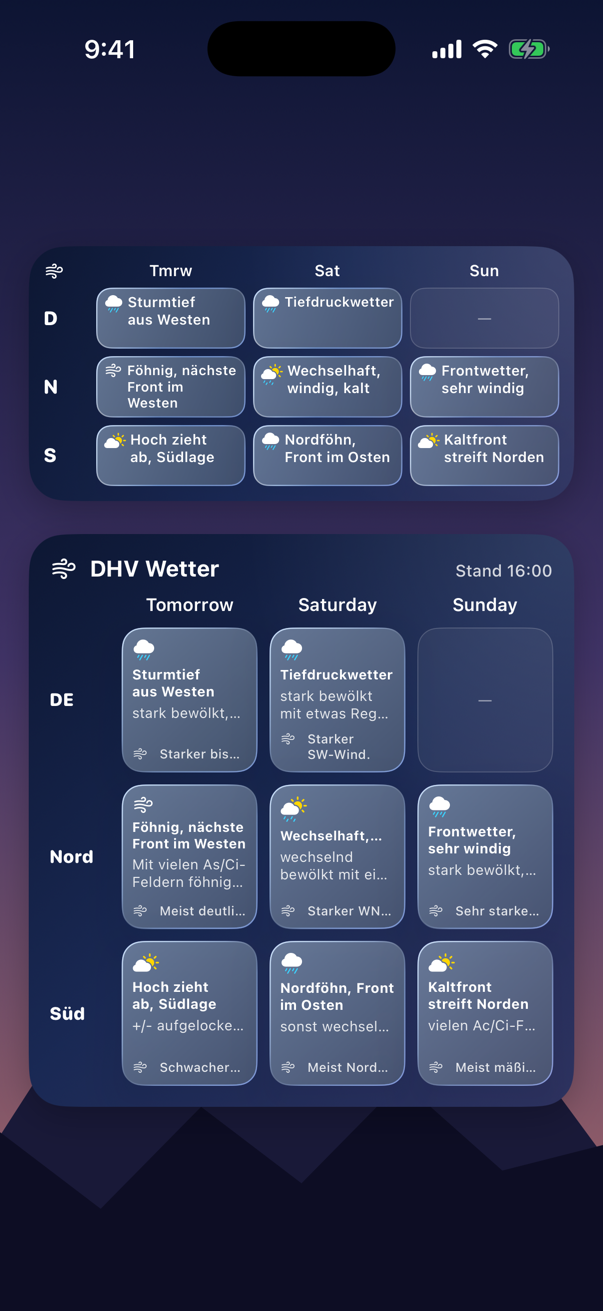
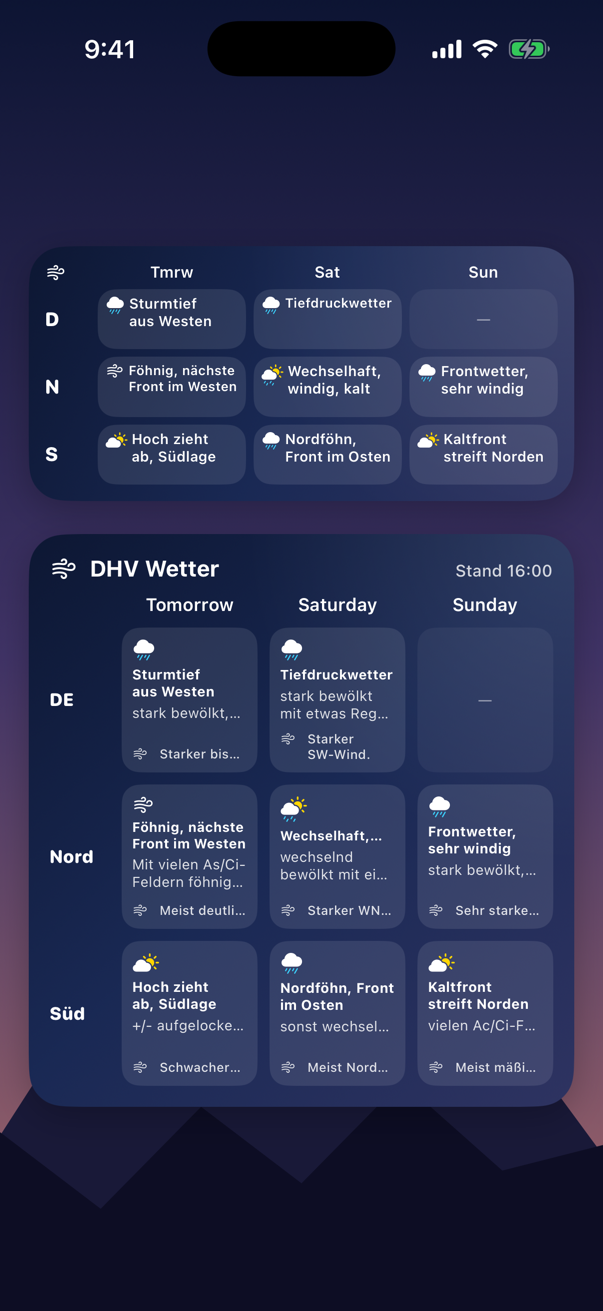
iOS widget: leave the Liquid Glass to iOS, real Home Screen screenshots
Before: each day tile faked glass with a gradient, a glassEffect and a
specular rim. glassEffect doesn't render inside WidgetKit, so on a real Home
Screen the tiles were flat boxes, and the README shots came from an in-app
gallery that never showed the Clear look.

After: tiles are plain fills with one corner radius, tinted by DHV's markers
in full colour. With a Clear or Tinted Home Screen iOS removes the
containerBackground and draws real Liquid Glass or the tint, as Apple's
WidgetKit guidance describes. A SpringBoard UI test adds the widgets to the
simulator's Home Screen and screenshots Default, Dark, Clear and Tinted for
the README.

diff --git a/ios/UITests/HomeScreenShots.swift b/ios/UITests/HomeScreenShots.swift
@@ -1,0 +1,194 @@
+import XCTest
+
+/// Puts the real widgets on the simulator's Home Screen through SpringBoard and
+/// screenshots them in each Home Screen appearance (Default, Dark, Clear,
+/// Tinted), so the README shows what iOS itself draws, Liquid Glass included.
+///
+/// Run by CI with `TEST_RUNNER_SHOTS_DIR` pointing at a folder on the host.
+/// SpringBoard's labels aren't API, so every step logs the accessibility tree
+/// when it can't find what it expects, and the test only fails if no
+/// screenshot at all was taken.
+final class HomeScreenShots: XCTestCase {
+    private let springboard = XCUIApplication(bundleIdentifier: "com.apple.springboard")
+    private var shots = 0
+    private var loggedCustomize = false
+
+    private lazy var outDir: URL = {
+        let path = ProcessInfo.processInfo.environment["SHOTS_DIR"] ?? NSTemporaryDirectory()
+        let url = URL(fileURLWithPath: path, isDirectory: true)
+        try? FileManager.default.createDirectory(at: url, withIntermediateDirectories: true)
+        return url
+    }()
+
+    override func setUp() {
+        continueAfterFailure = true
+    }
+
+    func testHomeScreenAppearances() throws {
+        // Open the app once so it downloads the forecast and iOS registers the widgets.
+        let app = XCUIApplication()
+        app.launch()
+        sleep(8)
+        XCUIDevice.shared.press(.home)
+        sleep(2)
+
+        addWidget(swipes: 1) // DHV Wetter, large
+        addWidget(swipes: 0) // DHV Wetter, medium (lands above the large one)
+        leaveEditMode()
+
+        // Give the widgets time to fetch and render their timeline.
+        sleep(25)
+        shoot("hs-default")
+
+        for (label, name) in [("Dark", "hs-dark"), ("Clear", "hs-clear"), ("Tinted", "hs-tinted")] {
+            if setAppearance(label) {
+                sleep(4)
+                shoot(name)
+            }
+        }
+        _ = setAppearance("Default")
+
+        XCTAssertGreaterThan(shots, 0, "No Home Screen screenshot was taken")
+    }
+
+    // MARK: - SpringBoard steps
+
+    private func enterEditMode() -> Bool {
+        if springboard.buttons["Done"].exists { return true }
+        // Long-press one of our widgets (or an empty spot before they exist);
+        // the context menu offers "Edit Home Screen". A long press on empty
+        // space goes straight to jiggle mode.
+        let widget = springboard.icons["DHV Wetter"].firstMatch
+        if widget.exists, widget.isHittable {
+            widget.press(forDuration: 1.6)
+        } else {
+            springboard.coordinate(withNormalizedOffset: CGVector(dx: 0.5, dy: 0.80)).press(forDuration: 1.6)
+        }
+        sleep(1)
+        let editHome = springboard.descendants(matching: .any)
+            .matching(NSPredicate(format: "label == %@", "Edit Home Screen")).firstMatch
+        if editHome.exists { editHome.tap(); sleep(1) }
+        if springboard.buttons["Done"].waitForExistence(timeout: 4) { return true }
+        dump("enterEditMode")
+        return false
+    }
+
+    private func openEditMenu(_ item: String) -> Bool {
+        guard enterEditMode() else { return false }
+        let edit = springboard.buttons["Edit"]
+        if edit.waitForExistence(timeout: 3) {
+            edit.tap()
+            sleep(1)
+        }
+        for query in [springboard.buttons, springboard.menuItems, springboard.staticTexts] {
+            let element = query[item]
+            if element.waitForExistence(timeout: 2) {
+                element.tap()
+                sleep(2)
+                return true
+            }
+        }
+        dump("openEditMenu(\(item))")
+        return false
+    }
+
+    private func addWidget(swipes: Int) {
+        guard openEditMenu("Add Widget") else { return }
+
+        let search = springboard.searchFields.firstMatch
+        if search.waitForExistence(timeout: 5) {
+            search.tap()
+            search.typeText("DHV")
+            sleep(2)
+        } else {
+            dump("widget gallery search")
+        }
+
+        var opened = false
+        for query in [springboard.cells, springboard.buttons, springboard.staticTexts] {
+            let result = query.matching(NSPredicate(format: "label CONTAINS[c] %@", "DHV Wetter")).firstMatch
+            if result.waitForExistence(timeout: 2), result.isHittable {
+                result.tap()
+                opened = true
+                break
+            }
+        }
+        guard opened else { dump("widget gallery result"); return }
+        sleep(2)
+
+        for _ in 0..<swipes {
+            springboard.coordinate(withNormalizedOffset: CGVector(dx: 0.8, dy: 0.45))
+                .press(forDuration: 0.05, thenDragTo: springboard.coordinate(withNormalizedOffset: CGVector(dx: 0.15, dy: 0.45)))
+            sleep(1)
+        }
+
+        let add = springboard.buttons.matching(NSPredicate(format: "label CONTAINS[c] %@", "Add Widget")).firstMatch
+        if add.waitForExistence(timeout: 4) {
+            add.tap()
+            sleep(3)
+        } else {
+            dump("add widget button")
+        }
+    }
+
+    private func leaveEditMode() {
+        let done = springboard.buttons["Done"]
+        if done.waitForExistence(timeout: 2) { done.tap() }
+        sleep(1)
+    }
+
+    /// Picks an appearance in Edit → Customize. Returns false if it couldn't.
+    private func setAppearance(_ label: String, variant: String? = nil) -> Bool {
+        guard openEditMenu("Customize") else { return false }
+        if !loggedCustomize && ProcessInfo.processInfo.environment["SHOTS_VERBOSE"] != nil {
+            loggedCustomize = true
+            print("HOMESHOT Customize panel:")
+            print(springboard.debugDescription)
+        }
+        var picked = false
+        for query in [springboard.buttons, springboard.cells, springboard.staticTexts] {
+            let option = query[label]
+            if option.waitForExistence(timeout: 2) {
+                option.tap()
+                picked = true
+                break
+            }
+        }
+        if !picked { dump("Customize: \(label)") }
+        if picked, let variant {
+            let toggle = springboard.buttons.matching(NSPredicate(format: "label CONTAINS[c] %@", variant)).firstMatch
+            if toggle.waitForExistence(timeout: 2) { toggle.tap() } else { dump("Customize variant: \(variant)"); picked = false }
+        }
+        sleep(1)
+        // The Home button closes the Customize panel and then ends jiggle mode.
+        XCUIDevice.shared.press(.home)
+        sleep(1)
+        if springboard.buttons["Done"].exists { XCUIDevice.shared.press(.home); sleep(1) }
+        leaveEditMode()
+        return picked
+    }
+
+    // MARK: - Output
+
+    private func shoot(_ name: String) {
+        let png = XCUIScreen.main.screenshot().pngRepresentation
+        do {
+            try png.write(to: outDir.appendingPathComponent("\(name).png"))
+            shots += 1
+            print("HOMESHOT saved \(name).png")
+        } catch {
+            print("HOMESHOT could not write \(name).png: \(error)")
+        }
+        let attachment = XCTAttachment(data: png, uniformTypeIdentifier: "public.png")
+        attachment.name = name
+        attachment.lifetime = .keepAlways
+        add(attachment)
+    }
+
+    private func dump(_ step: String) {
+        print("HOMESHOT missing element at step: \(step)")
+        print(springboard.debugDescription)
+        shoot("debug-\(shots)-\(step.filter { $0.isLetter || $0.isNumber })")
+        shots -= 1 // debug frames don't count as results
+    }
+}

diff --git a/ios/Shared/WidgetViews.swift b/ios/Shared/WidgetViews.swift
@@ -4,44 +4,41 @@ import WidgetKit
 
 // MARK: - Building blocks
 
-/// A tinted Liquid Glass tile. In full colour it uses real glass tinted by the
-/// day's rating; on a tinted or clear Home Screen the system recolours
-/// everything, so it falls back to a hairline outline and lets the glass
-/// container do the work.
-struct GlassTile: ViewModifier {
-    var tint: Color
-    var cornerRadius: CGFloat = 12
+/// A day tile: a plain grouping shape whose corners follow the widget's own
+/// (about 26 pt on iPhone) minus the content margin.
+///
+/// Apple's widget guidance leaves the glass to the system: on a Clear Home
+/// Screen iOS renders the widget in accented mode, removes the container
+/// background and draws real Liquid Glass behind the content. A custom glass
+/// effect doesn't render inside a widget, so tiles stay flat fills: tinted by
+/// DHV's marker in full colour, a faint neutral fill in accented mode (which
+/// iOS tints white and lays over its glass).
+struct DayTile: ViewModifier {
+    /// DHV's marker colour, or nil for an untinted (neutral or empty) tile.
+    var tint: Color?
+    var emphasis: Double = 1
     @Environment(\.widgetRenderingMode) private var mode
+    @Environment(\.colorScheme) private var scheme
 
-    @ViewBuilder
     func body(content: Content) -> some View {
-        let shape = RoundedRectangle(cornerRadius: cornerRadius, style: .continuous)
-        if mode == .fullColor {
-            content
-                .background {
-                    shape.fill(LinearGradient(colors: [tint.opacity(0.46), tint.opacity(0.16)],
-                                              startPoint: .topLeading, endPoint: .bottomTrailing))
-                }
-                .glassEffect(.regular.tint(tint.opacity(0.18)), in: shape)
-                .overlay {
-                    // Specular rim: bright top-left edge fading out.
-                    shape.strokeBorder(
-                        LinearGradient(colors: [.white.opacity(0.6), .white.opacity(0.06), .white.opacity(0.22)],
-                                       startPoint: .topLeading, endPoint: .bottomTrailing),
-                        lineWidth: 0.8
-                    )
-                }
-        } else {
-            content
-                .background { shape.fill(.white.opacity(0.08)) }
-                .overlay { shape.strokeBorder(.white.opacity(0.28), lineWidth: 0.6) }
+        content.background {
+            // Same radius for every tile: a concentric shape would square off
+            // the inner tiles of the grid.
+            RoundedRectangle(cornerRadius: 12, style: .continuous)
+                .fill(fill.opacity(emphasis))
         }
+    }
+
+    private var fill: Color {
+        guard mode == .fullColor else { return .white.opacity(0.12) }
+        if let tint { return tint.opacity(scheme == .dark ? 0.34 : 0.40) }
+        return .white.opacity(scheme == .dark ? 0.10 : 0.17)
     }
 }
 
 extension View {
-    func glassTile(_ tint: Color, cornerRadius: CGFloat = 12) -> some View {
-        modifier(GlassTile(tint: tint, cornerRadius: cornerRadius))
+    func dayTile(_ day: DayForecast?, emphasis: Double = 1) -> some View {
+        modifier(DayTile(tint: day.flatMap { $0.rating == .neutral ? nil : $0.tint }, emphasis: emphasis))
     }
 }
 
@@ -197,14 +194,12 @@ struct OverviewView: View {
                             if let day = region.day(on: date) {
                                 if isLarge { LargeCell(day: day) } else { MediumCell(day: day) }
                             } else {
-                                // No forecast for this region on that day: a quiet placeholder, not a glass tile.
-                                let shape = RoundedRectangle(cornerRadius: isLarge ? 14 : 10, style: .continuous)
+                                // No forecast for this region on that day: a fainter, empty tile.
                                 Text("—")
                                     .font(.caption2)
                                     .opacity(0.5)
                                     .frame(maxWidth: .infinity, maxHeight: .infinity)
-                                    .background { shape.fill(.white.opacity(0.06)) }
-                                    .overlay { shape.strokeBorder(.white.opacity(0.18), lineWidth: 0.6) }
+                                    .dayTile(nil, emphasis: 0.5)
                             }
                         }
                         .frame(maxWidth: .infinity, maxHeight: .infinity)
@@ -213,7 +208,7 @@ struct OverviewView: View {
             }
         }
         .foregroundStyle(.white)
-        .padding(isLarge ? 14 : 10)
+        .padding(isLarge ? 14 : 11)
     }
 
     private func statusText(_ forecast: Forecast) -> some View {
@@ -244,7 +239,7 @@ struct MediumCell: View {
         .overlay(alignment: .bottomTrailing) {
             DayBadges(day: day, size: 7).padding(3)
         }
-        .glassTile(day.tint, cornerRadius: 10)
+        .dayTile(day)
     }
 }
 
@@ -281,7 +276,7 @@ struct LargeCell: View {
         }
         .padding(7)
         .frame(maxWidth: .infinity, maxHeight: .infinity, alignment: .topLeading)
-        .glassTile(day.tint, cornerRadius: 14)
+        .dayTile(day)
     }
 }
 
@@ -387,7 +382,7 @@ struct RegionView: View {
                 }
                 .padding(8)
                 .frame(maxWidth: .infinity, maxHeight: .infinity, alignment: .topLeading)
-                .glassTile(today.tint, cornerRadius: 16)
+                .dayTile(today)
 
                 ForEach(days.dropFirst().prefix(2)) { day in
                     HStack(spacing: 4) {

diff --git a/ios/App/WidgetGallery.swift b/ios/App/WidgetGallery.swift
@@ -69,11 +69,14 @@ struct WidgetGallery: View {
     }
 
     /// Outside WidgetKit `containerBackground` is ignored, so draw the same
-    /// background and the Home Screen's rounded corners here.
+    /// full-colour background and the Home Screen's rounded corners here. The
+    /// container shape lets the tiles' concentric corners line up as they do
+    /// on the Home Screen.
     private func tile(_ content: some View, size: CGSize) -> some View {
         let shape = RoundedRectangle(cornerRadius: 24, style: .continuous)
         return content
             .frame(width: size.width, height: size.height)
+            .containerShape(shape)
             .background { SkyBackground() }
             .clipShape(shape)
             .shadow(color: .black.opacity(0.25), radius: 12, y: 6)
@@ -89,7 +92,7 @@ struct WidgetGallery: View {
     }
 }
 
-/// A plain alpine-dusk wallpaper so the glass has something to refract.
+/// A plain alpine-dusk wallpaper behind the widgets.
 private struct Wallpaper: View {
     var lock: Bool
     @Environment(\.colorScheme) private var scheme

diff --git a/ios/README.md b/ios/README.md
@@ -9,10 +9,10 @@ A native iOS 26 app and WidgetKit widgets for the [DHV-Wetter](https://www.dhv.d
 | **DHV Wetter** | Medium, Large | All three regions × the next days. Medium: headline per day. Large: headline, DHV's key phrase and wind. |
 | **DHV Region** | Small, Lock Screen (rectangular, inline) | One region (long-press → Edit Widget to choose). |
 
-- Each day is a glass tile. The icon shows the sky as DHV describes it (sun, cloud, showers, rain, snow, Föhn), read from DHV's bold key phrase.
+- Each day is a tile. The icon shows the sky as DHV describes it (sun, cloud, showers, rain, snow, Föhn), read from DHV's bold key phrase.
 - When DHV marks a day as Thermikwetter (👍), Störungswetter (👎) or with a Warnhinweis (⚠), the tile is tinted green, red or yellow and shows the badge. DHV mostly sets these markers in thermal season; outside it the tiles stay blue-grey.
 - Columns are matched by date and labelled from the real date (Today / Tomorrow / weekday), so they roll over at midnight and never show yesterday as "Today".
-- With a **Clear** or **Tinted** Home Screen (long-press the Home Screen → Edit → Customize) iOS renders the widget in its Liquid Glass style; everything stays readable there because the sky and DHV's markers are symbols, not only colours.
+- The Liquid Glass comes from iOS, as Apple's widget guidance intends: with a **Clear** or **Tinted** Home Screen (long-press the Home Screen → Edit → Customize) iOS renders the widget in accented mode, removes its sky background and draws real glass or your tint behind the content. The widget doesn't fake glass itself (a custom glass effect doesn't render inside widgets). Everything stays readable there because the sky and DHV's markers are symbols, not only colours.
 - The widget refreshes shortly after DHV's announced next update (morning ~7–8 h, evening ~18–19 h) and at least every 3 hours, as far as iOS's widget budget allows. Opening the app refreshes everything immediately.
 - Tapping a widget opens the app on that region.
 
@@ -55,6 +55,7 @@ ios/
 ├── DHVKit/            Swift package: DHV page parser, model, cache, tests
 │   └── Sources/dhv-check   `swift run dhv-check` prints the live forecast as parsed (`--html` dumps the raw markup)
 ├── App/               SwiftUI host app (+ debug-only widget gallery for screenshots)
+├── UITests/           CI-only SpringBoard test: real Home Screen shots in Default, Dark, Clear, Tinted
 ├── Widget/            WidgetKit extension
 └── Shared/            Widget views, colours and symbols used by both
 ```

diff --git a/README.md b/README.md
@@ -26,9 +26,12 @@ Install:
 
 ## iOS
 
-<img src="assets/ios/home-light.png" height="400" alt="iOS Home Screen widgets"> <img src="assets/ios/lock-dark.png" height="400" alt="iOS Lock Screen and small widgets">
+<img src="assets/ios/hs-default.png" height="400" alt="iOS Home Screen, Default"> <img src="assets/ios/hs-dark.png" height="400" alt="iOS Home Screen, Dark"> <img src="assets/ios/hs-clear.png" height="400" alt="iOS Home Screen, Clear (Liquid Glass)"> <img src="assets/ios/hs-tinted.png" height="400" alt="iOS Home Screen, Tinted"> <img src="assets/ios/lock-dark.png" height="400" alt="iOS Lock Screen and small widgets">
 
-- Liquid Glass tiles tinted by DHV's own markers (Thermikwetter, Störungswetter, Warnhinweis), with weather icons read from DHV's bold key phrases.
+Real iOS 26 Home Screen in the simulator: Default, Dark, Clear and Tinted. The glass is drawn by iOS itself.
+
+- Built to Apple's widget guidance for Liquid Glass: the background lives in `containerBackground`, so with a **Clear** or **Tinted** Home Screen (long-press → Edit → Customize) iOS swaps it for real Liquid Glass or your tint. In Default and Dark the widget is full colour.
+- Day tiles are tinted by DHV's own markers (Thermikwetter, Störungswetter, Warnhinweis), with weather icons read from DHV's bold key phrases. In Clear and Tinted the markers stay readable as symbols.
 - Days are matched and labelled by date, so the columns stay right after DHV's evening update and at midnight.
 - Refreshes shortly after DHV's announced next update, at least every 3 hours, and whenever you open the app.
 
@@ -43,6 +46,6 @@ Signing notes, App Groups and building in Xcode are in [ios/README.md](ios/READM
 ## Build
 
 - Android: `./gradlew assembleDebug`
-- iOS: `brew install xcodegen && cd ios && xcodegen generate`, then open `DHVWeather.xcodeproj` in Xcode 26. CI builds the unsigned IPA and simulator screenshots of the widgets on every push to `ios/`.
+- iOS: `brew install xcodegen && cd ios && xcodegen generate`, then open `DHVWeather.xcodeproj` in Xcode 26. CI builds the unsigned IPA on every push to `ios/`, and screenshots the widgets on the simulator's real Home Screen (a SpringBoard UI test) in each appearance.
 
 The forecast comes from the DHV website and belongs to the Deutscher Hängegleiterverband. It is not an official flight weather briefing: the pilot decides.
